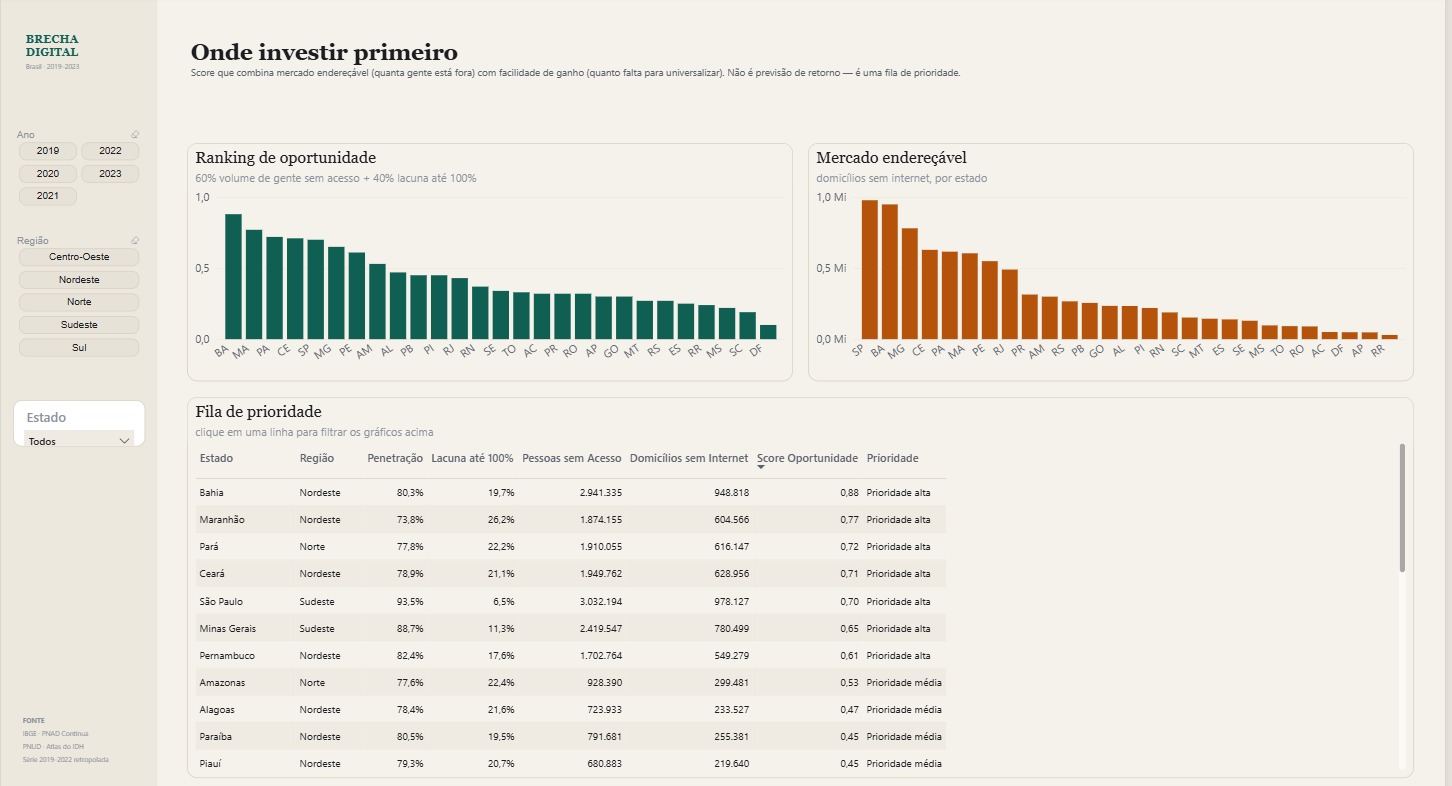
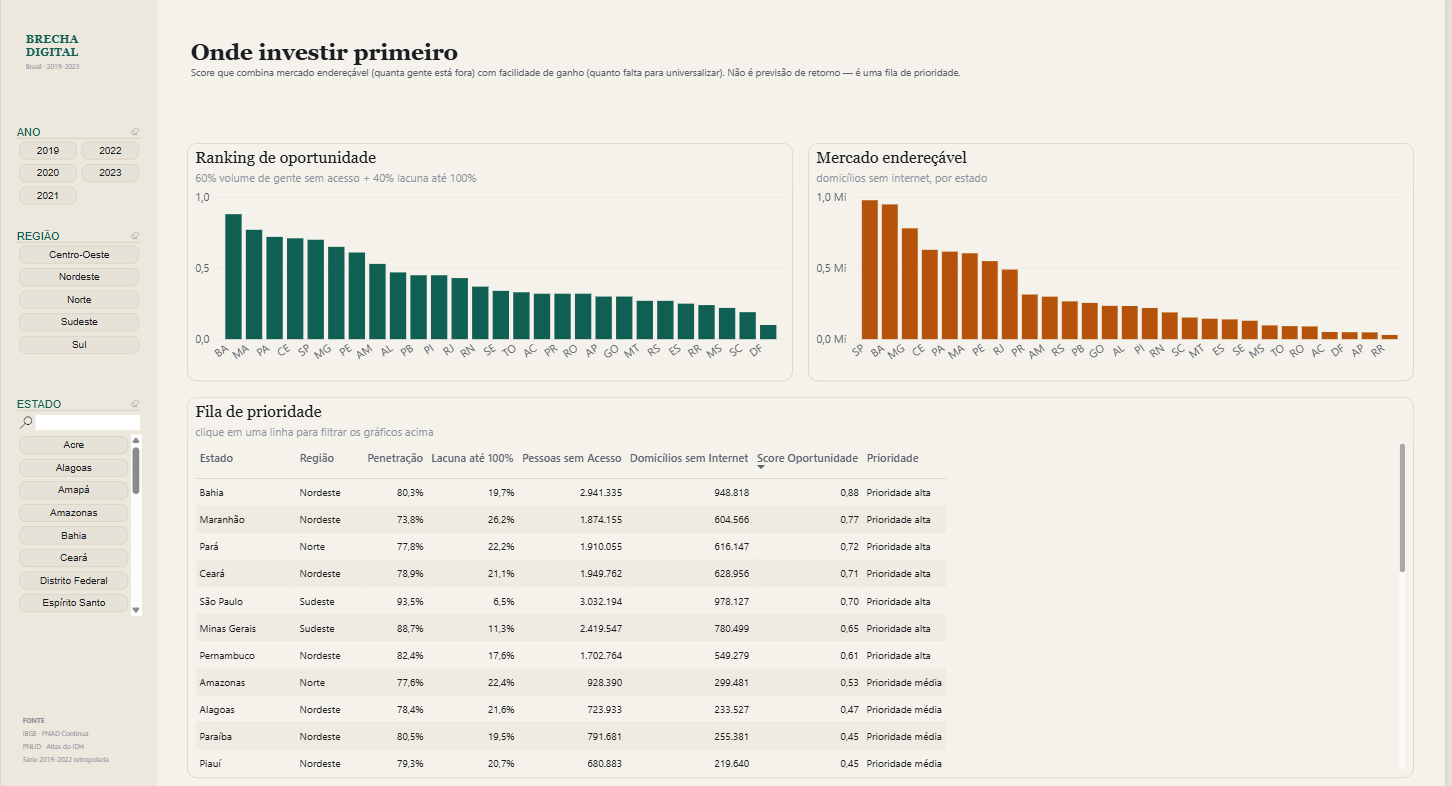
style: titulo de filtro identificavel, metodologia legivel e segmentos padronizados
Titulo do filtro: era cinza fraco em 10pt, mesmo peso do rotulo dos blocos —
nao dava para saber de imediato o que cada faixa filtrava. Passa a caixa alta,
na cor de destaque do tema, com fio embaixo separando do conteudo.

Pagina de metodologia: o texto estava em 11pt e ninguem lia. Vai para 15pt.
Como o espaco nao dobra sozinho, as frases mais longas foram encurtadas sem
perder o conteudo, e as alturas dos blocos passaram a ser explicitas em vez de
proporcionais — faixa proporcional cortava a leitura critica. A pagina tambem
sobe: ela nao tem faixa de filtros e estava herdando o recuo que existe para
os filtros das outras.

Segmentos padronizados: no digital_divide, Estado era o unico em lista suspensa
no meio de dois em bloco. Vira bloco tambem, com a caixa de busca do proprio
Chiclet — sao 27 valores, e a busca resolve o que so a rolagem tornaria
cansativo.

Screenshots atualizados.

diff --git a/tools/build_report.py b/tools/build_report.py
@@ -523,7 +523,7 @@ def scatter(page: str, key: str, box, title: str, subtitle: str,
 
 
 def chiclet(page: str, key: str, box, label: str, entity: str, prop: str,
-            colunas: int) -> dict:
+            colunas: int, busca: bool = False) -> dict:
     """Chiclet Slicer no rail — cada valor vira um bloco clicavel.
 
     O visual nativo nao expoe cor de estado: selecionado e nao selecionado saem
@@ -543,11 +543,14 @@ def chiclet(page: str, key: str, box, label: str, entity: str, prop: str,
                 multiselect=lit(True),
                 showDisabled=lit("Inplace"),
                 forcedSelection=lit(False),
+                selfFilterEnabled=lit(busca),
             ),
             "header": obj(
-                show=lit(True), title=lit(label),
-                fontColor=solid(INK_DIM), background=solid(BG_RAIL),
-                textSize=lit(10), outline=lit("None"),
+                show=lit(True), title=lit(label.upper()),
+                fontColor=solid(TEAL), background=solid(BG_RAIL),
+                textSize=lit(11),
+                outline=lit("BottomOnly"), outlineColor=solid(BORDER),
+                outlineWeight=lit(1),
             ),
             "rows": obj(
                 fontColor=solid(INK), textSize=lit(10),
@@ -632,12 +635,12 @@ def chrome(page: str, titulo: str, lede: str, filtros: bool = True) -> list:
         # Ano (5 valores, rotulo curto) em duas colunas; Regiao (5 valores,
         # rotulo longo) em uma. Estado tem 27 valores e continua suspenso — em
         # bloco ocuparia o rail inteiro.
-        v.append(chiclet(page, "slicer_Ano", (16, 172, RAIL_W - 32, 128),
+        v.append(chiclet(page, "slicer_Ano", (16, 168, RAIL_W - 32, 126),
                          "Ano", "dim_periodo", "Ano", 2))
-        v.append(chiclet(page, "slicer_Regiao", (16, 312, RAIL_W - 32, 214),
+        v.append(chiclet(page, "slicer_Regiao", (16, 306, RAIL_W - 32, 212),
                          "Região", "dim_uf", "Região", 1))
-        v.append(slicer(page, "slicer_Estado", (16, 538, RAIL_W - 32, 62),
-                        "Estado", "dim_uf", "Estado"))
+        v.append(chiclet(page, "slicer_Estado", (16, 530, RAIL_W - 32, 300),
+                         "Estado", "dim_uf", "Estado", 1, busca=True))
     v.append(textbox(page, "fonte", (24, PAGE_H - 132, RAIL_W - 44, 100), [
         run("FONTE\n", 9, INK_DIM, bold=True),
         run("IBGE · PNAD Contínua\nPNUD · Atlas do IDH\nSérie 2019–2022 retropolada", 9, INK_DIM),
@@ -820,39 +823,44 @@ def page_metodo() -> tuple[str, list]:
     # Ancorado no topo: centrar verticalmente abria um vao entre o titulo da
     # pagina e o primeiro painel, que lia como erro de alinhamento. A pagina e
     # um documento — termina onde o texto termina.
-    r = split(3, 2)
+    # Alturas explicitas: com o texto em 15pt, faixas proporcionais cortavam a
+    # leitura critica. Cada bloco recebe o que o conteudo pede.
+    # A pagina de metodologia nao tem filtros no rail, entao nao herda o recuo
+    # que existe para eles: o conteudo sobe.
+    H_BLOCOS, H_NOTAS = 452, 320
+    y0 = HEAD_Y + 116
+    r = [(y0, H_BLOCOS), (y0 + H_BLOCOS + GUTTER, H_NOTAS)]
     c3 = cols(3)
 
     blocos = [
         ("Origem do dado", [
-            ("Penetração 2023", "IBGE · PNAD Contínua, proporção de domicílios com acesso à "
-                                "internet por unidade da federação. Observado."),
+            ("Penetração 2023", "IBGE · PNAD Contínua: proporção de domicílios com acesso à internet, "
+                                "por unidade da federação. Observado."),
             ("Série 2019–2022", "RETROPOLADA. Só 2023 é observado por estado; os anos anteriores "
-                                "aplicam a variação nacional do período a cada UF."),
-            ("IDH", "PNUD · Atlas do Desenvolvimento Humano, censo 2010. É constante na série — "
-                    "não existe IDH anual por estado."),
+                                "aplicam a variação nacional a cada UF."),
+            ("IDH", "PNUD · Atlas do Desenvolvimento Humano, censo 2010. É constante na "
+                    "série — não existe IDH anual por estado."),
             ("População e densidade", "IBGE · estimativas 2023 e Censo 2022. Observados."),
         ]),
         ("Modelagem", [
             ("Esquema", "Star schema: um fato (fato_indicadores) no grão UF × ano e duas "
                         "dimensões (dim_uf, dim_periodo)."),
-            ("Por que só duas dimensões", "Havia uma dim_metrica com cinco métricas, das quais o "
-                                          "fato carregava uma. Dimensão que ninguém aponta é "
-                                          "decoração — foi removida."),
-            ("Atributos da UF", "População, densidade e IDH vivem só em dim_uf. Estavam copiados "
-                                "no fato, repetidos cinco vezes por estado, fingindo série anual."),
-            ("Região", "É atributo de dim_uf, não tabela própria: evita um floco de neve sem "
+            ("Por que só duas dimensões", "Havia uma dim_metrica com cinco métricas e o fato carregava uma. "
+                                          "Dimensão que ninguém aponta é decoração — foi removida."),
+            ("Atributos da UF", "População, densidade e IDH vivem só em dim_uf. Estavam copiados no "
+                                "fato, repetidos cinco vezes por estado."),
+            ("Região", "Atributo de dim_uf, não tabela própria: evita um floco de neve sem "
                        "ganho de modelagem."),
         ]),
         ("Como ler os números", [
-            ("Duas médias diferentes", "A média simples dos 27 estados dá 84,9%. A ponderada por "
-                                       "população dá 87,4%. A diferença existe porque os estados "
-                                       "grandes têm mais acesso. O painel usa a ponderada."),
-            ("Pessoas sem acesso", "É a leitura em gente do percentual de domicílios, assumindo "
-                                   "tamanho de domicílio uniforme (3,1 moradores, PNAD 2023). "
-                                   "Não é contagem individual."),
-            ("Score de oportunidade", "Ponderação escolhida por mim: 60% volume, 40% lacuna. "
-                                      "Muda a fila se mudarem os pesos — por isso está declarado."),
+            ("Duas médias diferentes", "A média simples dos 27 estados dá 84,9%; a ponderada por população, "
+                                       "87,4%. A diferença existe porque os estados grandes têm "
+                                       "mais acesso. O painel usa a ponderada."),
+            ("Pessoas sem acesso", "Leitura em gente do percentual de domicílios, assumindo domicílio "
+                                   "uniforme (3,1 moradores, PNAD 2023). Não é contagem "
+                                   "individual."),
+            ("Score de oportunidade", "Ponderação escolhida por mim: 60% volume, 40% lacuna. Muda a fila se "
+                                      "mudarem os pesos — por isso está declarado."),
         ]),
     ]
 
@@ -860,9 +868,9 @@ def page_metodo() -> tuple[str, list]:
         runs = []
         for i, (rot, txt) in enumerate(itens):
             if i:
-                runs.append(run("\n\n", 11, INK_DIM))
-            runs.append(run(rot + "\n", 11, TEAL, bold=True))
-            runs.append(run(txt, 11, INK_MUT))
+                runs.append(run("\n\n", 15, INK_DIM))
+            runs.append(run(rot + "\n", 15, TEAL, bold=True))
+            runs.append(run(txt, 15, INK_MUT))
         v.append(visual(
             p, f"bloco_{titulo}", "textbox", (x, r[0][0], w, r[0][1]),
             objects={"general": obj(paragraphs=[{"textRuns": runs, "horizontalTextAlignment": "left"}])},
@@ -871,25 +879,25 @@ def page_metodo() -> tuple[str, list]:
 
     limites = [
         ("O que este painel NÃO responde",
-         "Não há dado de velocidade, preço, tecnologia de acesso nem qualidade de conexão. "
-         "\"Ter internet no domicílio\" inclui do 4G compartilhado à fibra de 500 mega — "
-         "duas realidades que o indicador trata como iguais."),
+         "Não há velocidade, preço, tecnologia nem qualidade de conexão. \"Ter "
+         "internet no domicílio\" inclui do 4G compartilhado à fibra de 500 mega "
+         "— duas realidades que o indicador trata como iguais."),
         ("Por que não existe recorte urbano × rural",
-         "Existia, e foi removido. A fonte offline só sabia produzi-lo aplicando um desvio fixo "
-         "sobre o total (+5pp urbano, −20pp rural), o que gerava um gap de exatamente 25,0 pontos "
-         "em todos os 27 estados. Um número que parece análise e não é: não distinguia estado "
-         "nenhum porque foi construído para não distinguir."),
+         "Existia, e foi removido. A fonte offline só sabia produzi-lo com desvio "
+         "fixo sobre o total (+5pp urbano, −20pp rural), gerando um gap de "
+         "exatamente 25,0 pontos em todos os 27 estados. Um número que parece "
+         "análise e não é: foi construído para não distinguir estado nenhum."),
         ("Consequência para a leitura da série",
-         "Como 2019–2022 é retropolado pela média nacional, todo estado cresce no mesmo ritmo por "
-         "construção. A série serve para ordem de grandeza da evolução; não serve para comparar "
-         "velocidade de adoção entre estados."),
+         "Como 2019–2022 é retropolado pela média nacional, todo estado cresce no "
+         "mesmo ritmo por construção. A série dá ordem de grandeza da evolução; "
+         "não serve para comparar velocidade de adoção entre estados."),
     ]
     runs = []
     for i, (rot, txt) in enumerate(limites):
         if i:
-            runs.append(run("\n\n", 11, INK_DIM))
-        runs.append(run(rot + "\n", 11, AMBER, bold=True))
-        runs.append(run(txt, 11, INK_MUT))
+            runs.append(run("\n\n", 15, INK_DIM))
+        runs.append(run(rot + "\n", 15, AMBER, bold=True))
+        runs.append(run(txt, 15, INK_MUT))
     v.append(visual(
         p, "limites", "textbox", (CONTENT_X, r[1][0], CONTENT_W, r[1][1]),
         objects={"general": obj(paragraphs=[{"textRuns": runs, "horizontalTextAlignment": "left"}])},
